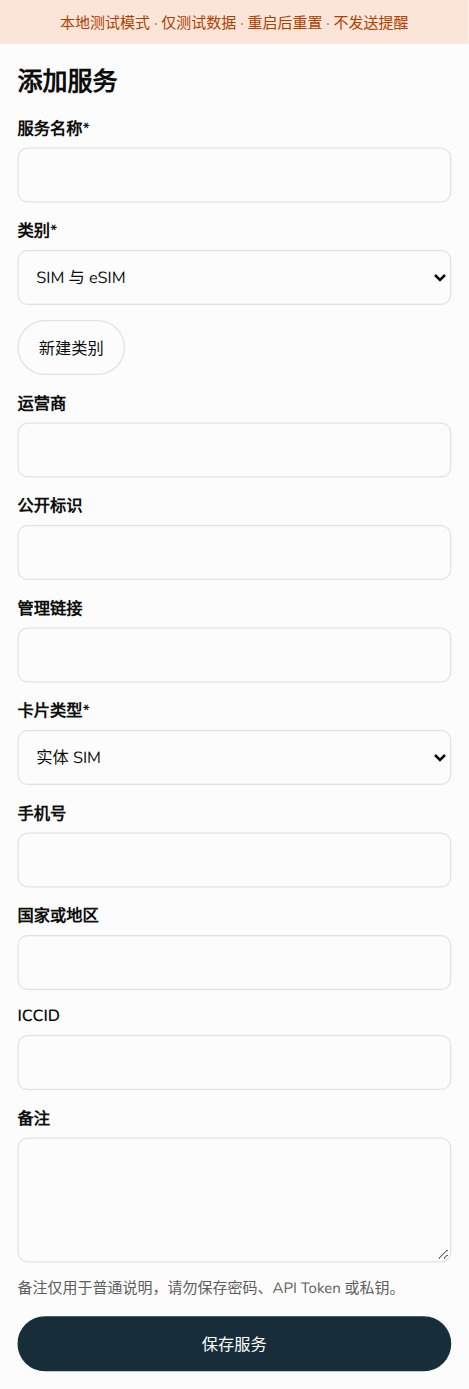
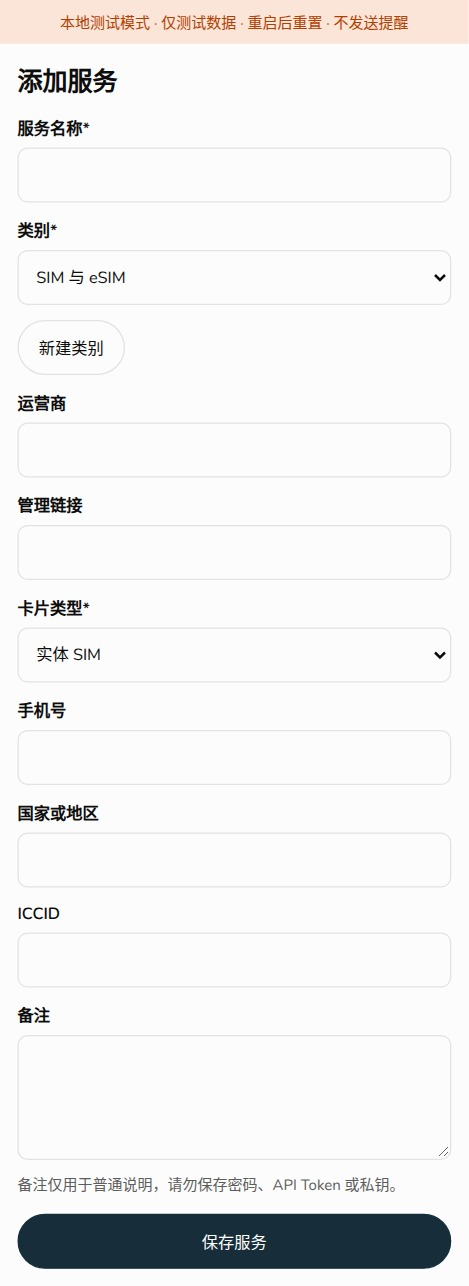
feat: drop the public identifier from SIM services

diff --git a/web/src/routes/ServiceForm.svelte b/web/src/routes/ServiceForm.svelte
@@ -16,7 +16,7 @@
   let { id, initialKind }: { id?: string; initialKind?: CategoryKind } = $props();
   type GeneralKey = 'provider' | 'identifier' | 'management_url' | 'notes';
   type SimKey = 'phone_number' | 'country_or_region' | 'iccid';
-  const generalFields: { key: GeneralKey; label: string; limit: number }[] = [
+  const allGeneralFields: { key: GeneralKey; label: string; limit: number }[] = [
     { key: 'provider', label: '服务商', limit: 200 },
     { key: 'identifier', label: '公开标识', limit: 200 },
     { key: 'management_url', label: '管理链接', limit: 2048 },
@@ -50,6 +50,9 @@
   const category = $derived(categories.find((item) => item.id === categoryID) ?? null);
   const serviceFields = $derived(fieldLabels(category?.code));
   const kind = $derived(category?.kind ?? initialKind ?? 'generic');
+  // A SIM service carries its own public facts in sim_details; the generic
+  // identifier is only offered to the other categories.
+  const generalFields = $derived(kind === 'sim' ? allGeneralFields.filter(({ key }) => key !== 'identifier') : allGeneralFields);
   const entityKind = $derived(entity?.sim_details ? 'sim' : entity ? categories.find((item) => item.id === entity?.category_id)?.kind ?? 'generic' : null);
   const dirty = $derived(entity
     ? name !== entity.name || categoryID !== entity.category_id || generalFields.some(({ key }) => general[key] !== (entity?.[key] ?? '') || cleared[key]) || (kind === 'sim' && (cardType !== (entity.sim_details?.card_type ?? 'physical_sim') || simFields.some(({ key }) => sim[key] !== (entity?.sim_details?.[key] ?? '') || cleared[key])))
@@ -237,10 +240,12 @@
           {#snippet action()}{#if general.provider}<button type="button" class="text-button" aria-label={kind === 'sim' ? '清除运营商' : '清除服务商'} disabled={!canWrite() || submitter.busy} onclick={() => { general.provider = ''; cleared.provider = Boolean(id); }}>清除</button>{/if}{/snippet}
           {#snippet children(field)}<input id={field.id} bind:value={general.provider} maxlength="200" oninput={() => { cleared.provider = false; }} disabled={!canWrite() || submitter.busy} aria-invalid={field.invalid} aria-describedby={field.describedby} />{/snippet}
         </FormField>
-        <FormField id="service-identifier" label={serviceFields.identifier} error={errors.identifier}>
-          {#snippet action()}{#if general.identifier}<button type="button" class="text-button" aria-label="清除公开标识" disabled={!canWrite() || submitter.busy} onclick={() => { general.identifier = ''; cleared.identifier = Boolean(id); }}>清除</button>{/if}{/snippet}
-          {#snippet children(field)}<input id={field.id} bind:value={general.identifier} maxlength="200" oninput={() => { cleared.identifier = false; }} disabled={!canWrite() || submitter.busy} aria-invalid={field.invalid} aria-describedby={field.describedby} />{/snippet}
-        </FormField>
+        {#if kind !== 'sim'}
+          <FormField id="service-identifier" label={serviceFields.identifier} error={errors.identifier}>
+            {#snippet action()}{#if general.identifier}<button type="button" class="text-button" aria-label="清除公开标识" disabled={!canWrite() || submitter.busy} onclick={() => { general.identifier = ''; cleared.identifier = Boolean(id); }}>清除</button>{/if}{/snippet}
+            {#snippet children(field)}<input id={field.id} bind:value={general.identifier} maxlength="200" oninput={() => { cleared.identifier = false; }} disabled={!canWrite() || submitter.busy} aria-invalid={field.invalid} aria-describedby={field.describedby} />{/snippet}
+          </FormField>
+        {/if}
         <FormField id="service-url" label="管理链接" error={errors.management_url}>
           {#snippet action()}{#if general.management_url}<button type="button" class="text-button" aria-label="清除管理链接" disabled={!canWrite() || submitter.busy} onclick={() => { general.management_url = ''; cleared.management_url = Boolean(id); }}>清除</button>{/if}{/snippet}
           {#snippet children(field)}<input id={field.id} type="url" bind:value={general.management_url} maxlength="2048" oninput={() => { cleared.management_url = false; }} disabled={!canWrite() || submitter.busy} aria-invalid={field.invalid} aria-describedby={field.describedby} />{/snippet}

diff --git a/web/tests/services.test.ts b/web/tests/services.test.ts
@@ -139,6 +139,20 @@ describe('service form and categories', () => {
     expect(screen.getByRole('textbox', { name: 'ICCID' })).toHaveValue('8988600000000000000');
   });
 
+  it('never offers the generic identifier for SIM services', async () => {
+    vi.stubGlobal('fetch', vi.fn(async (input: string) => {
+      const url = new URL(input, location.origin);
+      if (url.pathname.endsWith('/categories')) return page([simCategory, genericCategory]);
+      if (url.pathname.endsWith('/services/42')) return json(simService());
+      return json(user);
+    }));
+    render(ServiceForm, { props: { id: '42' } });
+    await screen.findByRole('combobox', { name: '类别' });
+    expect(screen.queryByRole('textbox', { name: '公开标识' })).not.toBeInTheDocument();
+    expect(screen.getByRole('textbox', { name: '运营商' })).toHaveValue('运营商');
+    expect(screen.getByRole('textbox', { name: 'ICCID' })).toHaveValue('8988600000000000000');
+  });
+
   it('rejects credential URLs, relative URLs, non-HTTP protocols, and oversized URLs', async () => {
     const fetcher = vi.fn(async (input: string, _init: RequestInit = {}) => {
       const url = new URL(input, location.origin);
@@ -177,6 +191,8 @@ describe('service detail', () => {
     await screen.findByRole('heading', { name: '漫游卡' });
     expect(screen.getByText(/\+886.*5678/)).toBeInTheDocument();
     expect(screen.queryByText('8988600000000000000')).not.toBeInTheDocument();
+    expect(screen.queryByText('公开标识')).not.toBeInTheDocument();
+    expect(screen.queryByText('host.example')).not.toBeInTheDocument();
     expect(await screen.findByText('约定周期：每 1 月')).toBeInTheDocument();
     expect(await screen.findByText('约定费用：12.99 USD')).toBeInTheDocument();
     const link = screen.getByRole('link', { name: 'https://manage.example/' });

diff --git a/web/src/routes/ServiceDetail.svelte b/web/src/routes/ServiceDetail.svelte
@@ -177,7 +177,7 @@
     <div class="section stack"><SectionHeader title="服务资料">{#snippet children()}{/snippet}</SectionHeader><dl class="profile">
       {#if category}<div><dt>类别</dt><dd>{category.name}</dd></div>{/if}
       {#if service.provider}<div><dt>{service.sim_details ? '运营商' : serviceFields.provider}</dt><dd>{service.provider}</dd></div>{/if}
-      {#if service.identifier}<div><dt>{serviceFields.identifier}</dt><dd>{service.identifier}</dd></div>{/if}
+      {#if service.identifier && !service.sim_details}<div><dt>{serviceFields.identifier}</dt><dd>{service.identifier}</dd></div>{/if}
       {#if managementURL}<div><dt>管理链接</dt><dd><a href={managementURL} target="_blank" rel="noopener noreferrer">{service.management_url}</a></dd></div>{/if}
       {#if service.sim_details}<div><dt>卡片类型</dt><dd>{cardTypeLabels[service.sim_details.card_type]}</dd></div>{#if service.sim_details.phone_number}<div><dt>手机号</dt><dd>{maskPhone(service.sim_details.phone_number)}</dd></div>{/if}{#if service.sim_details.country_or_region}<div><dt>国家或地区</dt><dd>{service.sim_details.country_or_region}</dd></div>{/if}{/if}
       {#if service.notes}<div><dt>备注</dt><dd class="preserve">{service.notes}</dd></div>{/if}

diff --git a/web/src/lib/domain/labels.ts b/web/src/lib/domain/labels.ts
@@ -71,8 +71,9 @@ export const serviceStatusLabels: Record<ServiceStatus, string> = { active: '使
 export const termsModeLabels: Record<TermsMode, string> = { once: '一次性', recurring: '周期性', custom: '暂不设置' };
 export const intervalUnitLabels: Record<IntervalUnit, string> = { day: '天', week: '周', month: '月', year: '年' };
 export const periodStatusLabels: Record<PeriodStatus, string> = { active: '有效', expired: '已过期' };
+// SIM services have no generic identifier: their public facts live in
+// sim_details, so the map covers the remaining categories only.
 export const serviceFieldLabels: Record<string, { provider: string; identifier: string }> = {
-  sim: { provider: '运营商', identifier: '公开标识' },
   vps: { provider: '服务商', identifier: '主机名或 IP' },
   domain: { provider: '注册商', identifier: '域名' },
   subscription: { provider: '服务商', identifier: '账号标识' },

diff --git a/internal/bot/wizard_services.go b/internal/bot/wizard_services.go
@@ -51,7 +51,7 @@ func (w *wizard) renderServiceAdd(ctx context.Context) {
 	case "add_provider":
 		w.reply(ctx, "可选：服务商/运营商（例如 Carrier、Cloud Provider）。", optionalNav(true)...)
 	case "add_identifier":
-		w.reply(ctx, "可选：公开标识（主机名、域名、账号标识或公开号码；不要填密码）。", optionalNav(true)...)
+		w.reply(ctx, "可选：公开标识（主机名、域名、账号标识；不要填密码）。", optionalNav(true)...)
 	case "add_management_url":
 		w.reply(ctx, "可选：管理链接（必须是无内嵌凭据的 http(s) 绝对地址）。", optionalNav(true)...)
 	case "add_phone":
@@ -77,8 +77,11 @@ func (w *wizard) renderServiceAddPreview(ctx context.Context) {
 		}
 	}
 	var b strings.Builder
-	fmt.Fprintf(&b, "请确认新建服务：\n类别：%s\n名称：%s\n服务商：%s\n公开标识：%s\n管理链接：%s\n备注：%s\n",
-		categoryName, w.dr.Values["name"], shown(w.dr, "provider"), shown(w.dr, "identifier"), shown(w.dr, "management_url"), shown(w.dr, "notes"))
+	fmt.Fprintf(&b, "请确认新建服务：\n类别：%s\n名称：%s\n服务商：%s\n", categoryName, w.dr.Values["name"], shown(w.dr, "provider"))
+	if kind != "sim" {
+		fmt.Fprintf(&b, "公开标识：%s\n", shown(w.dr, "identifier"))
+	}
+	fmt.Fprintf(&b, "管理链接：%s\n备注：%s\n", shown(w.dr, "management_url"), shown(w.dr, "notes"))
 	if kind == "sim" {
 		fmt.Fprintf(&b, "卡类型：%s\n号码：%s\n国家/地区：%s\nICCID：%s\n", cardTypeLabel(w.dr.Values["card_type"]), shown(w.dr, "phone"), shown(w.dr, "region"), shown(w.dr, "iccid"))
 	}
@@ -164,12 +167,13 @@ func (w *wizard) confirmServiceAdd(ctx context.Context) {
 		return
 	}
 	in := service.ServiceInput{Name: w.dr.Values["name"], CategoryID: categoryID,
-		Provider: opt(w.dr, "provider"), Identifier: opt(w.dr, "identifier"),
-		ManagementURL: opt(w.dr, "management_url"), Notes: opt(w.dr, "notes")}
+		Provider: opt(w.dr, "provider"), ManagementURL: opt(w.dr, "management_url"), Notes: opt(w.dr, "notes")}
 	if w.dr.Values["kind"] == "sim" {
 		in.SIMDetails = &service.SIMDetails{CardType: w.dr.Values["card_type"], PhoneNumber: opt(w.dr, "phone"),
 			CountryOrRegion: opt(w.dr, "region"), ICCID: opt(w.dr, "iccid")}
+		w.dr.del("identifier")
 	} else {
+		in.Identifier = opt(w.dr, "identifier")
 		for _, key := range []string{"card_type", "phone", "region", "iccid"} {
 			w.dr.del(key)
 		}
@@ -375,7 +379,11 @@ func editValue(item service.ServiceItem, field string) string {
 }
 
 func editFieldRows(item service.ServiceItem) [][]models.InlineKeyboardButton {
-	fields := [][2]string{{"name", "名称"}, {"category_id", "类别"}, {"provider", "服务商"}, {"identifier", "公开标识"}, {"management_url", "管理链接"}, {"notes", "备注"}}
+	fields := [][2]string{{"name", "名称"}, {"category_id", "类别"}, {"provider", "服务商"}}
+	if item.SIMDetails == nil {
+		fields = append(fields, [2]string{"identifier", "公开标识"})
+	}
+	fields = append(fields, [2]string{"management_url", "管理链接"}, [2]string{"notes", "备注"})
 	if item.SIMDetails != nil {
 		fields = append(fields, [2]string{"card_type", "SIM 卡类型"}, [2]string{"phone", "号码"}, [2]string{"region", "国家/地区"}, [2]string{"iccid", "ICCID"})
 	}
@@ -453,6 +461,15 @@ func (w *wizard) confirmServiceEdit(ctx context.Context) {
 	case "provider":
 		set(&patch.Provider)
 	case "identifier":
+		item, err := w.h.svc.GetService(ctx, w.user.ID, *w.d.ServiceID)
+		if err != nil {
+			w.stepError(ctx, "服务已不存在，请重新打开编辑。", false, false)
+			return
+		}
+		if item.SIMDetails != nil {
+			w.stepError(ctx, "SIM 服务不使用公开标识，请返回选择其他字段。", false, false)
+			return
+		}
 		set(&patch.Identifier)
 	case "management_url":
 		set(&patch.ManagementURL)

diff --git a/internal/storage/sim_identifier_test.go b/internal/storage/sim_identifier_test.go
@@ -1,0 +1,53 @@
+package storage
+
+import (
+	"context"
+	"io/fs"
+	"testing"
+
+	"telegram.bot.remind/migrations"
+)
+
+// Migration 004 clears legacy SIM identifiers and blocks new ones at the
+// schema level, so a bypassed service layer cannot reintroduce them.
+func TestSIMIdentifierIsClearedAndBlocked(t *testing.T) {
+	ctx := context.Background()
+	s := openTestStore(t)
+	if err := s.Migrate(ctx); err != nil {
+		t.Fatal(err)
+	}
+	storageExec(t, s,
+		`INSERT INTO users(id,telegram_user_id,timezone,created_at,updated_at) VALUES(7,101,'UTC',1,1)`,
+		`INSERT INTO service_items(id,user_id,name,category_id,identifier,status,created_at,updated_at) VALUES(11,7,'VPS',(SELECT id FROM service_categories WHERE code='vps'),'host.example','active',1,1)`,
+		// Roll the schema back to its pre-004 shape so the backfill runs against
+		// rows that already hold an identifier.
+		`DROP TRIGGER service_items_sim_identifier_insert`,
+		`DROP TRIGGER service_items_sim_identifier_update`,
+		`INSERT INTO service_items(id,user_id,name,category_id,identifier,status,created_at,updated_at) VALUES(12,7,'SIM',(SELECT id FROM service_categories WHERE code='sim'),'legacy','active',1,1)`,
+		`INSERT INTO sim_details(service_id,card_type) VALUES(12,'esim')`,
+	)
+	body, err := fs.ReadFile(migrations.FS, "004_sim_identifier_null.sql")
+	if err != nil {
+		t.Fatal(err)
+	}
+	if _, err := s.DB.Exec(string(body)); err != nil {
+		t.Fatal(err)
+	}
+	var identifier any
+	if err := s.DB.QueryRow(`SELECT identifier FROM service_items WHERE id=12`).Scan(&identifier); err != nil || identifier != nil {
+		t.Fatalf("legacy SIM identifier survived: %v %v", identifier, err)
+	}
+	if err := s.DB.QueryRow(`SELECT identifier FROM service_items WHERE id=11`).Scan(&identifier); err != nil || identifier != "host.example" {
+		t.Fatalf("generic identifier changed: %v %v", identifier, err)
+	}
+	for _, statement := range []string{
+		`INSERT INTO service_items(id,user_id,name,category_id,identifier,status,created_at,updated_at) VALUES(13,7,'SIM',(SELECT id FROM service_categories WHERE code='sim'),'x','active',1,1)`,
+		`UPDATE service_items SET identifier='x' WHERE id=12`,
+		`UPDATE service_items SET category_id=(SELECT id FROM service_categories WHERE code='sim') WHERE id=11`,
+	} {
+		if _, err := s.DB.Exec(statement); err == nil {
+			t.Fatalf("accepted SIM identifier mutation: %s", statement)
+		}
+	}
+	assertStorageIntegrity(t, s)
+}

diff --git a/internal/service/sim_identifier_test.go b/internal/service/sim_identifier_test.go
@@ -1,0 +1,42 @@
+package service
+
+import (
+	"context"
+	"testing"
+)
+
+// A SIM service carries its public facts in SIMDetails; the generic identifier
+// is reserved for the other categories.
+func TestSIMServiceRejectsIdentifier(t *testing.T) {
+	s, st, a, _ := setup(t)
+	ctx := context.Background()
+	simCategory := testSIMCategory(t, s)
+	identifier := "should-not-stick"
+
+	created, err := s.CreateService(ctx, a.ID, ServiceInput{
+		Name: "卡", CategoryID: simCategory, SIMDetails: &SIMDetails{CardType: "esim"}, Identifier: &identifier,
+	})
+	if err != ErrInvalid || created.ID != 0 {
+		t.Fatalf("create with identifier: item=%+v err=%v", created, err)
+	}
+
+	item, err := s.CreateService(ctx, a.ID, ServiceInput{Name: "卡", CategoryID: simCategory, SIMDetails: &SIMDetails{CardType: "esim"}})
+	if err != nil {
+		t.Fatal(err)
+	}
+	if _, err = s.UpdateService(ctx, a.ID, item.ID, ServicePatch{Identifier: Optional[string]{Set: true, Value: &identifier}}); err != ErrInvalid {
+		t.Fatalf("patch identifier: %v", err)
+	}
+	// Clearing an absent identifier stays a no-op instead of an error, so an
+	// outdated client can still save the rest of the form.
+	updated, err := s.UpdateService(ctx, a.ID, item.ID, ServicePatch{Identifier: Optional[string]{Set: true}})
+	if err != nil || updated.Identifier != nil {
+		t.Fatalf("clear identifier: item=%+v err=%v", updated, err)
+	}
+
+	vpsCategory := stageTwoCategory(t, st, "vps")
+	generic, err := s.CreateService(ctx, a.ID, ServiceInput{Name: "云主机", CategoryID: vpsCategory, Identifier: &identifier})
+	if err != nil || generic.Identifier == nil || *generic.Identifier != identifier {
+		t.Fatalf("generic identifier: item=%+v err=%v", generic, err)
+	}
+}

diff --git a/internal/bot/sim_identifier_test.go b/internal/bot/sim_identifier_test.go
@@ -1,0 +1,46 @@
+package bot
+
+import (
+	"strings"
+	"testing"
+)
+
+// SIM services expose their public facts through sim_details, so the wizard
+// never asks for the generic identifier and never renders it.
+func TestSIMWizardOmitsIdentifier(t *testing.T) {
+	f := newFixture(t)
+	f.start(userA)
+	sim := serviceCategoryID(t, f, "sim")
+	f.send(userA, "/add")
+	f.callback(userA, choiceCallback("category", id(sim)), nil)
+	f.send(userA, "旅行卡")
+	f.callback(userA, choiceCallback("card_type", "esim"), nil)
+	f.callback(userA, cb("dialog", "skip"), nil)
+	if text := f.stub.lastText(); strings.Contains(text, "公开标识") {
+		t.Fatalf("SIM asked for identifier: %q", text)
+	}
+	if text := f.stub.lastText(); !strings.Contains(text, "管理链接") {
+		t.Fatalf("SIM skipped to: %q", text)
+	}
+	f.callback(userA, cb("dialog", "skip_rest"), nil)
+	if text := f.stub.lastText(); strings.Contains(text, "公开标识") {
+		t.Fatalf("SIM preview shows identifier: %q", text)
+	}
+	f.callback(userA, cb("dialog", "confirm"), nil)
+	if text := f.stub.lastText(); strings.Contains(text, "公开标识") {
+		t.Fatalf("SIM detail shows identifier: %q", text)
+	}
+
+	created := f.createSIM("卡")
+	f.callback(userA, cb("service", "edit", id(created.ID)), nil)
+	if markup := markupOf(f); strings.Contains(markup, choiceCallback("field", "identifier")) {
+		t.Fatalf("SIM edit menu offers identifier: %q", markup)
+	}
+
+	f.send(userA, "/cancel")
+	generic := f.createService("Host", "vps")
+	f.callback(userA, cb("service", "edit", id(generic.ID)), nil)
+	if markup := markupOf(f); !strings.Contains(markup, choiceCallback("field", "identifier")) {
+		t.Fatalf("generic edit menu lost identifier: %q", markup)
+	}
+}

diff --git a/internal/service/services.go b/internal/service/services.go
@@ -119,6 +119,11 @@ func (s *Service) CreateService(ctx context.Context, uid int64, in ServiceInput)
 		if (kind == "sim") != (v.SIMDetails != nil) {
 			return ErrInvalid
 		}
+		// A SIM service identifies itself through sim_details; the generic
+		// identifier belongs to every other category only.
+		if kind == "sim" && v.Identifier != nil {
+			return ErrInvalid
+		}
 		r, err := tx.ExecContext(ctx, `INSERT INTO service_items(user_id,name,category_id,provider,identifier,management_url,notes,status,created_at,updated_at) VALUES(?,?,?,?,?,?,?,?,?,?)`, uid, v.Name, v.CategoryID, v.Provider, v.Identifier, v.ManagementURL, v.Notes, v.Status, v.CreatedAt, v.UpdatedAt)
 		if err != nil {
 			return err
@@ -194,6 +199,9 @@ func (s *Service) UpdateService(ctx context.Context, uid, id int64, in ServicePa
 			v.Provider = in.Provider.Value
 		}
 		if in.Identifier.Set {
+			if oldKind == "sim" && in.Identifier.Value != nil {
+				return ErrInvalid
+			}
 			v.Identifier = in.Identifier.Value
 		}
 		if in.ManagementURL.Set {

diff --git a/internal/bot/steps.go b/internal/bot/steps.go
@@ -150,6 +150,9 @@ func nextStep(action string, d draft, step string) string {
 		case "add_card_type":
 			return "add_provider"
 		case "add_provider":
+			if d.Values["kind"] == "sim" {
+				return "add_management_url"
+			}
 			return "add_identifier"
 		case "add_identifier":
 			return "add_management_url"
@@ -244,12 +247,15 @@ func previousStep(action string, d draft, step string) string {
 	return ""
 }
 
-// applies hides the SIM-only questions for generic categories and the
-// recurring-details questions for non-recurring terms.
+// applies hides the SIM-only questions for generic categories, the generic
+// identifier for SIM, and the recurring-details questions for non-recurring
+// terms.
 func applies(action string, d draft, step string) bool {
 	switch step {
 	case "add_card_type", "add_phone", "add_region", "add_iccid":
 		return d.Values["kind"] == "sim"
+	case "add_identifier":
+		return d.Values["kind"] != "sim"
 	case "terms_interval", "terms_amount":
 		return d.Values["mode"] == "recurring"
 	}

diff --git a/internal/bot/render.go b/internal/bot/render.go
@@ -200,8 +200,11 @@ func (h *Handler) showServiceDetail(ctx context.Context, b *telegram.Bot, user s
 func (h *Handler) serviceDetailPage(ctx context.Context, user service.User, item service.ServiceItem, after int64) (string, service.Page[service.Period], error) {
 	category := categoryName(ctx, h, user.ID, item.CategoryID)
 	var b strings.Builder
-	fmt.Fprintf(&b, "%s\n类别：%s\n状态：%s\n服务商：%s\n公开标识：%s\n管理链接：%s\n",
-		item.Name, category, statusLabel(item.Status), textOrDash(item.Provider), textOrDash(item.Identifier), textOrDash(item.ManagementURL))
+	fmt.Fprintf(&b, "%s\n类别：%s\n状态：%s\n服务商：%s\n", item.Name, category, statusLabel(item.Status), textOrDash(item.Provider))
+	if item.SIMDetails == nil {
+		fmt.Fprintf(&b, "公开标识：%s\n", textOrDash(item.Identifier))
+	}
+	fmt.Fprintf(&b, "管理链接：%s\n", textOrDash(item.ManagementURL))
 	if d := item.SIMDetails; d != nil {
 		kind := d.CardType
 		if kind == "physical_sim" {

diff --git a/README.md b/README.md
@@ -8,7 +8,7 @@
 
 - 服务、内置/自定义类别、多个有效期。
 - SIM 专属资料：卡类型、号码、国家/地区、ICCID。
-- 通用服务字段：服务商、公开标识、管理链接、备注、类别。
+- 通用服务字段：服务商、公开标识、管理链接、备注、类别；公开标识不用于 SIM。
 - 有效期条款：一次性、周期性、暂不设置；Mini App 金额可输入小数，按 ISO 4217 币种小数位换算为整数最小货币单位传输，币种为三位大写字母。
 - 每用户时区的提醒规则；提前天数、提醒时刻、启用/禁用。
 - 显式确认续期，保留续期前后截止与付款记录；不自动推进日期。
@@ -20,7 +20,7 @@
 
 | 类别 | 服务商字段 | 公开标识字段 | 额外字段 |
 | --- | --- | --- | --- |
-| SIM/eSIM | 运营商 | 公开标识 | 卡类型、号码、国家/地区、ICCID |
+| SIM/eSIM | 运营商 | 不提供 | 卡类型、号码、国家/地区、ICCID |
 | VPS/云服务器 | 服务商 | 主机名或 IP | 无 |
 | 域名 | 注册商 | 域名 | 无 |
 | 软件/AI 订阅 | 服务商 | 账号标识 | 无 |
@@ -127,7 +127,7 @@ Mini App 设置页可选 1 小时、6 小时、24 小时或 7 天；选择保存
 
 精确字段：
 
-- Service：`id,user_id,name,category_id,provider,identifier,management_url,notes,status,created_at,updated_at,sim_details`；`sim_details` 仅 SIM 非空，含 `card_type,phone_number,country_or_region,iccid`。
+- Service：`id,user_id,name,category_id,provider,identifier,management_url,notes,status,created_at,updated_at,sim_details`；`sim_details` 仅 SIM 非空，含 `card_type,phone_number,country_or_region,iccid`；`identifier` 仅非 SIM 类别可用，SIM 写入非 null 返回 400 `invalid_input`。
 - Period：`id,service_id,name,starts_at,expires_at,date_precision,local_expires_date,timezone,status,cycle,terms,created_at,updated_at`；`status` 只由截止时间计算为 `active`/`expired`。
 - Terms：`mode,interval_count,interval_unit,amount,currency,revision`。
 - Rule：`id,period_id,days_before,reminder_time,enabled,revision,created_at,updated_at`。
